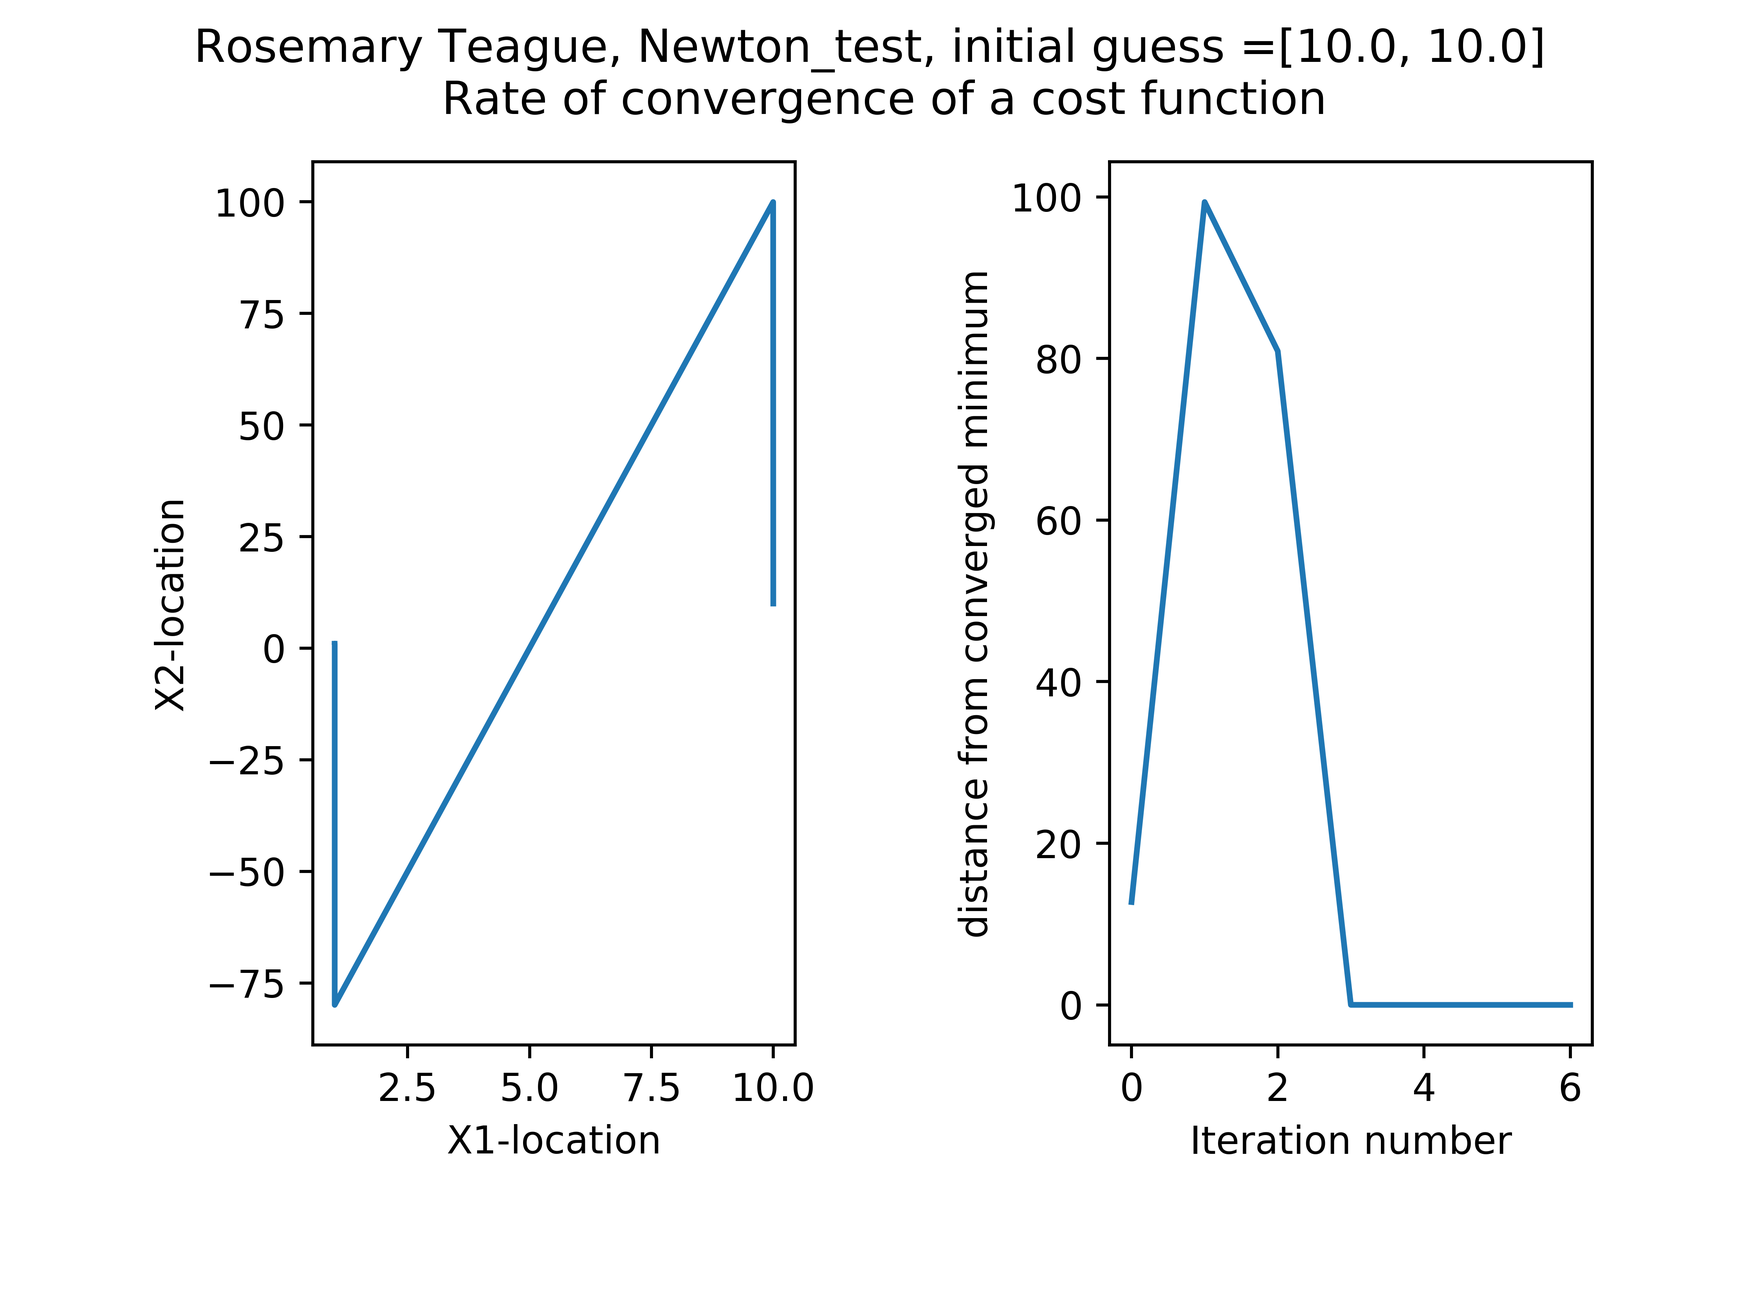
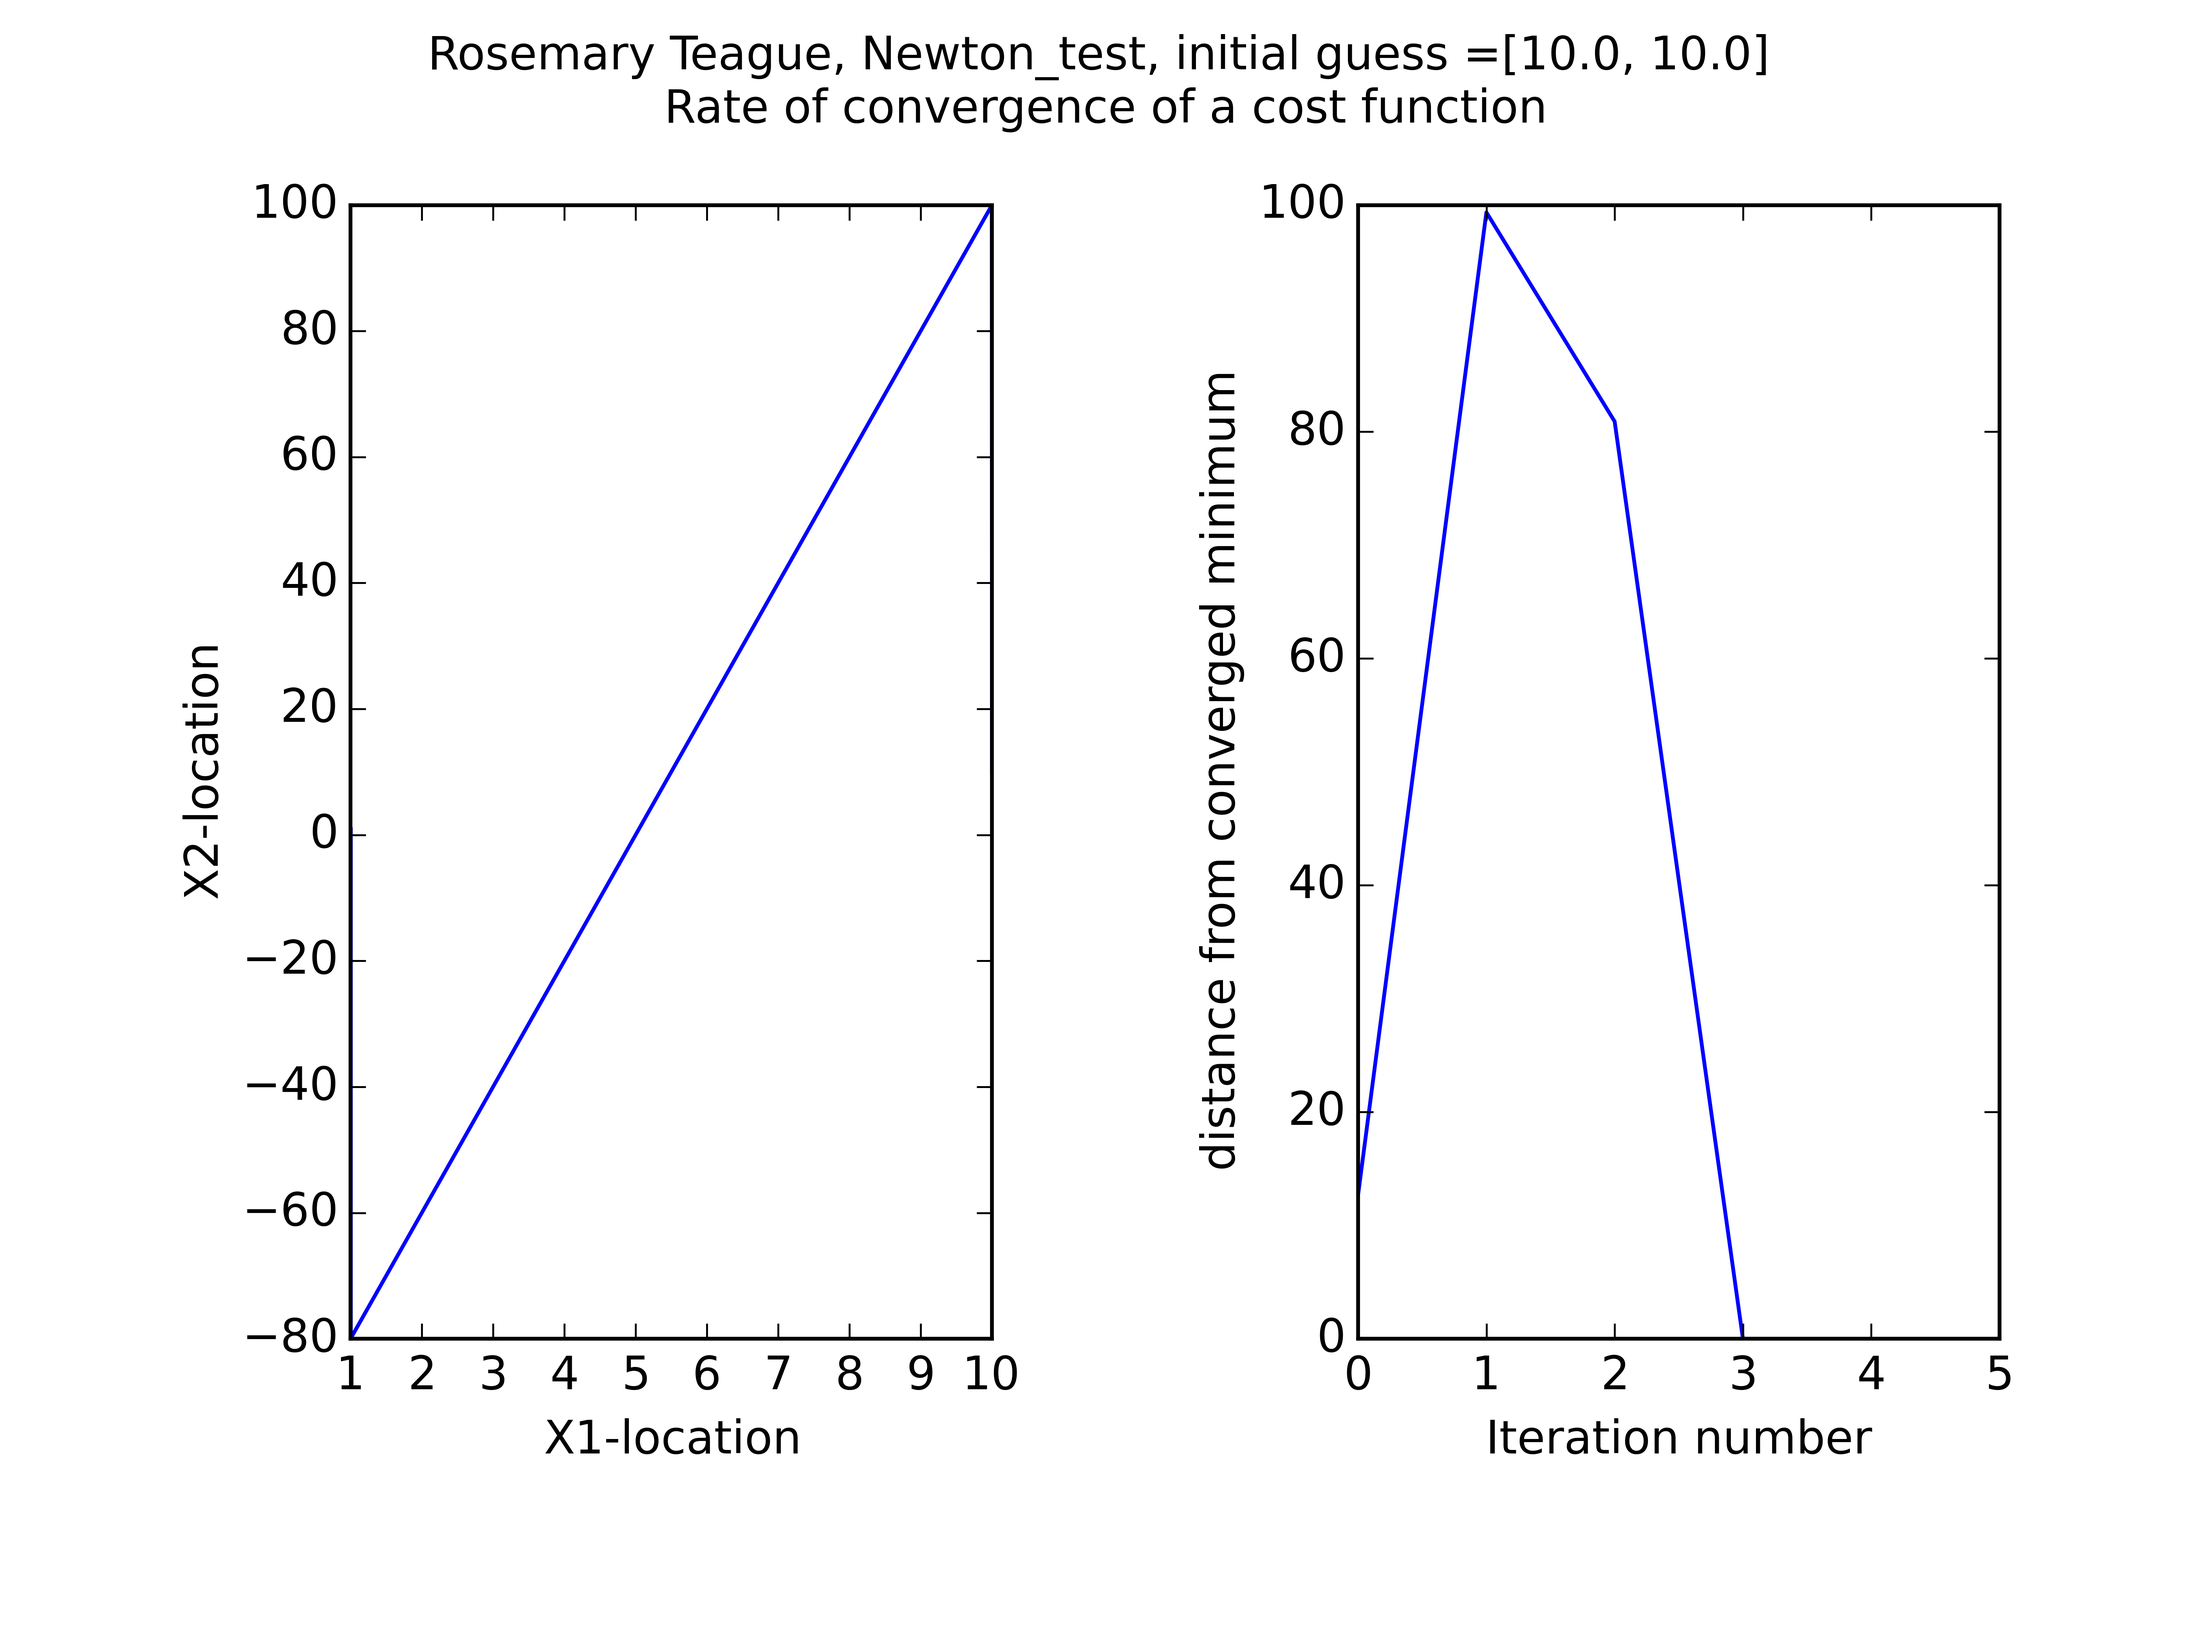
Graphs for comparison with Scipy - accuracy of result + time taken

diff --git a/hw2_template_dev.py b/hw2_template_dev.py
@@ -11,6 +11,7 @@ from matplotlib import colors, ticker, cm
 import scipy.optimize
 from hw2mod2 import cost
 from hw2mod2 import hw2
+from time import time
 
 def visualize(Nx,Ny,xrange=10,yrange=10):
     """Display cost function with and without noise on an Ny x Nx grid
@@ -54,6 +55,7 @@ def newton_test(xg,display=False,i=1):
     Further output can be added to the tuple, output, as needed. It may also
     be left empty.
     """
+    cost.c_noise=False
     hw2.tol=10**(-6)
     hw2.itermax=1000
     hw2.newton(xg)
@@ -87,6 +89,7 @@ def bracket_descent_test(xg,display=False,i=1):
 
     Output variables: xf -- computed location of minimum, jf -- computed minimum
     """
+    cost.c_noise=False
     hw2.tol=10**(-6)
     hw2.itermax=1000
     hw2.bracket_descent(xg)
@@ -105,7 +108,7 @@ def bracket_descent_test(xg,display=False,i=1):
         p2.set_ylabel('distance from converged minimum')
         plt.suptitle('Rosemary Teague, bracket_descent_test, initial guess ='+str(xg)+' \n Rate of convergence of a cost function')
         plt.tight_layout(pad=4)
-        plt.savefig('hw32'+str(i), dpi=700)
+        plt.savefig('hw23'+str(i), dpi=700)
 
 
 
@@ -119,40 +122,106 @@ def performance():
     needed
     """
     plt.close()
-    lbfgsx=[]
-    lbfgsy=[]
-    xfbdx=[]
-    xfbdy=[]
+    lbfgsx=[]; lbfgsy=[]; xfbdx=[]; xfbdy=[]; tlbfgsb=[]; txfbd=[]
 
-    for [x,y] in [[-100.,3.],[-50.,-3.],[-10.,-3.],[-1.,-3.]]:
-        info=scipy.optimize.minimize(cost.costj, [x,y], method='L-BFGS-B')
+    hw2.tol=10**(-14)
+    cost.c_noise=True
+    for cost.c_noise_amp in [0., 1., 10.]:
+        for [x,y] in [[-100.,-3.],[-50.,-3.],[-10.,-3.],[-1.,-3.]]:
 
-        xfbd,jfbd,i2=hw2.bracket_descent([x,y])
-        print('method:              ', 'Fortran Bracket Descent')
-        print('Value:               ', jfbd)
-        print('number of iterations:', i2)
-        print('x:                   ', xfbd)
-        print('   ')
-        print(info)
+            t1=time()
+            info=scipy.optimize.minimize(cost.costj, [x,y], method='L-BFGS-B')
+            t2=time()
+            tlbfgsb.append(t2-t1)
 
-        x=scipy.optimize.OptimizeResult.values(info)[4]
-        lbfgsx.append(x[0])
-        lbfgsy.append(x[1])
-        xfbdx.append(xfbd[0])
-        xfbdy.append(xfbd[1])
+            t3=time()
+            xfbd,jfbd,i2=hw2.bracket_descent([x,y])
+            t4=time()
+            txfbd.append(t4-t3)
+            # print('method:              ', 'Fortran Bracket Descent')
+            # print('Value:               ', jfbd)
+            # print('number of iterations:', i2)
+            # print('x:                   ', xfbd)
+            # print('c_noise:             ', cost.c_noise)
+            # print('   ')
+            # print(info)
 
+            x=scipy.optimize.OptimizeResult.values(info)[4]
+            lbfgsx.append(x[0]-1.0)
+            lbfgsy.append(x[1]-1.0)
+            xfbdx.append(xfbd[0]-1.0)
+            xfbdy.append(xfbd[1]-1.0)
+
+    plt.close()
     f, (p41,p42) = plt.subplots(1,2)
-    p41.plot(lbfgsx,lbfgsy,'rx')
-    p41.set_ylim(0.9999987,0.9999997)
-    p41.xaxis.set_ticks(np.arange(0.9999993,0.9999999,0.0000003))
+    p41.plot(lbfgsx[0:4],lbfgsy[0:4],'r',marker='x',markersize=12)
+    p41.set_title('Scipy Optimise L-BFGS-B')
+    p41.set_xlabel('x-1')
+    p41.set_ylabel('y-1')
     p41.ticklabel_format(useOffset=False)
-    p42.plot(xfbdx,xfbdy,'bx')
-    p42.set_ylim(0.997,1.0003)
-    p42.xaxis.set_ticks(np.arange(0.9985000,1.00005,0.0005))
+    p42.plot(xfbdx[0:4],xfbdy[0:4],'b',marker='x',markersize=12)
+    p42.set_title('Fortran Bracket Descent')
+    p42.set_xlabel('x-1')
+    p42.set_ylabel('y-1')
+    p42.yaxis.set_ticks(np.linspace(min(xfbdy[0:4]),max(xfbdy[0:4]),3))
+    p42.xaxis.set_ticks(np.linspace(min(xfbdx[0:4]),max(xfbdx[0:4]),3))
+    p42.ticklabel_format(useOffset=False)
     plt.suptitle('Rosemary Teague, performance \n Comparison of converged values')
- #plt.xlim([0.999,1.001])
+    plt.tight_layout(pad=4)
     plt.savefig('hw241', dpi=700)
+
+    plt.close()
+    f2, (p412,p422) = plt.subplots(1,2)
+    p412.plot(lbfgsx[4:8],lbfgsy[4:8],'m',marker='x',markersize=12)
+    p412.set_title('Scipy Optimise L-BFGS-B')
+    p412.set_xlabel('x-1')
+    p412.set_ylabel('y-1')
+    p412.ticklabel_format(useOffset=False)
+    p422.plot(xfbdx[4:8],xfbdy[4:8],'g',marker='x',markersize=12)
+    p422.set_title('Fortran Bracket Descent')
+    p422.set_xlabel('x-1')
+    p422.set_ylabel('y-1')
+    plt.suptitle('Rosemary Teague, performance \n Comparison of converged values with noise=1')
     plt.tight_layout(pad=3.5)
+    plt.savefig('hw242', dpi=700)
+
+
+    plt.close()
+    f3, (p413,p423) = plt.subplots(1,2)
+    p413.plot(lbfgsx[8:],lbfgsy[8:],'#c79fef',marker='x',markersize=12)
+    p413.set_title('Scipy Optimise L-BFGS-B')
+    p413.set_xlabel('x')
+    p413.set_ylabel('y')
+    p413.ticklabel_format(useOffset=False)
+    p423.plot(xfbdx[8:],xfbdy[8:],'c',marker='x',markersize=12)
+    p423.set_title('Fortran Bracket Descent')
+    p423.set_xlabel('x')
+    p423.set_ylabel('y')
+    plt.suptitle('Rosemary Teague, performance \n Comparison of converged values with noise=10')
+    plt.tight_layout(pad=3.5)
+    plt.savefig('hw243', dpi=700)
+
+    plt.close()
+    f4, (p414,p424) = plt.subplots(1,2)
+    p414.plot(tlbfgsb[:4],[-100.,-50.,-10.,-1.],'r',marker='x',markersize=12)
+    p414.plot(tlbfgsb[4:8],[-100.,-50.,-10.,-1.],'m',marker='x',markersize=12)
+    p414.plot(tlbfgsb[8:],[-100.,-50.,-10.,-1.],'#c79fef',marker='x',markersize=12)
+    p414.set_title('Scipy Optimise L-BFGS-B')
+    p414.set_xlabel('Time Taken')
+    p414.set_ylabel('Initial guess')
+    p414.xaxis.set_ticks(np.linspace(min(tlbfgsb),max(tlbfgsb),3))
+    p414.ticklabel_format(useOffset=False)
+    p424.plot(txfbd[:4],[-100.,-50.,-10.,-1.],'b',marker='x',markersize=12)
+    p424.plot(txfbd[4:8],[-100.,-50.,-10.,-1.],'g',marker='x',markersize=12)
+    p424.plot(txfbd[8:],[-100.,-50.,-10.,-1.],'c',marker='x',markersize=12)
+    p424.set_title('Fortran Bracket Descent')
+    p424.set_xlabel('Time Taken')
+    p424.xaxis.set_ticks(np.linspace(min(txfbd),max(txfbd),3))
+    plt.suptitle('Rosemary Teague, performance \n Time taken for values to converge')
+    plt.tight_layout(pad=3.5)
+    plt.savefig('hw244', dpi=700)
+
+
 
 if __name__ == '__main__':
     #Add code here to call newton_test, bracket_descent_test, performance
